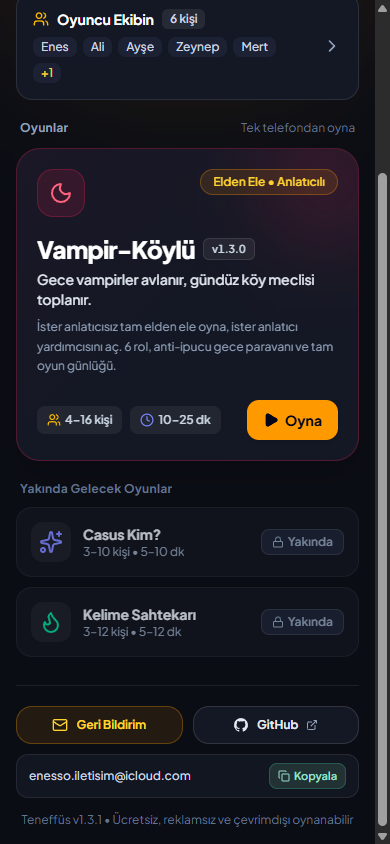
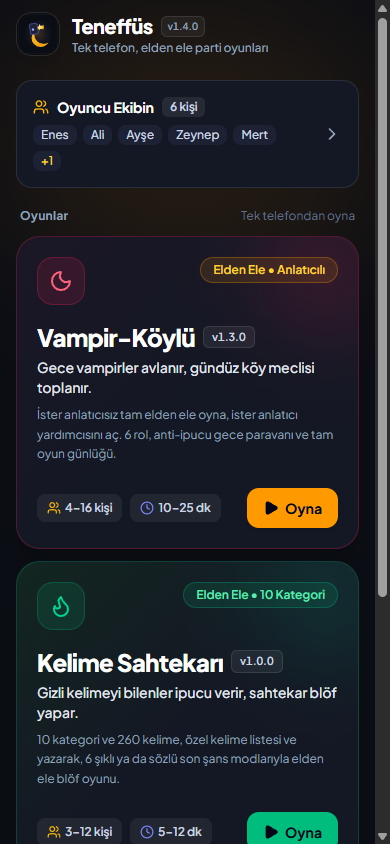
docs: showcase Kelime Sahtekari v1.0.0 and Hub v1.4.0

diff --git a/README.md b/README.md
@@ -7,8 +7,9 @@
   **Arkadaş grupları için tasarlanmış; tamamen ücretsiz, reklamsız, çevrimdışı çalışabilen mobil öncelikli pass-and-play parti oyunları hub'ı.**
 
   [![Canlı Uygulama](https://img.shields.io/badge/Canlı%20Site-teneffus.ns--som.workers.dev-f59e0b?style=for-the-badge&logo=cloudflare&logoColor=white)](https://teneffus.ns-som.workers.dev/)
-  [![Site Sürümü](https://img.shields.io/badge/Hub%20Sürümü-v1.3.1-10b981?style=for-the-badge)](CHANGELOG.md)
+  [![Site Sürümü](https://img.shields.io/badge/Hub%20Sürümü-v1.4.0-10b981?style=for-the-badge)](CHANGELOG.md)
   [![Vampir-Köylü](https://img.shields.io/badge/Vampir--Köylü-v1.3.0-f43f5e?style=for-the-badge)](CHANGELOG.md)
+  [![Kelime Sahtekarı](https://img.shields.io/badge/Kelime%20Sahtekarı-v1.0.0-10b981?style=for-the-badge)](CHANGELOG.md)
   [![Mimari](https://img.shields.io/badge/Mimari-React%2019%20%7C%20TS%20%7C%20PWA-6366f1?style=for-the-badge)](docs/ARCHITECTURE.md)
   [![Gizlilik](https://img.shields.io/badge/Gizlilik-%25100%20Cihazda-06b6d4?style=for-the-badge)](docs/PRIVACY.md)
   [![Lisans](https://img.shields.io/badge/Lisans-Tüm%20Hakları%20Saklıdır-475569?style=for-the-badge)](LICENSE)
@@ -33,15 +34,20 @@
 <div align="center">
   <table border="0">
     <tr>
-      <td align="center" width="50%">
-        <img src="assets/screenshots/hub.png" alt="Teneffüs Hub Mobil Görünümü" width="300">
+      <td align="center" width="33%">
+        <img src="assets/screenshots/hub.png" alt="Teneffüs Hub v1.4.0 Mobil Görünümü" width="240">
         <br>
-        <em>Teneffüs Hub: Ortak Oyuncu Ekibi, Oyun Kartları ve Geri Bildirim Alt Bölümü</em>
+        <em>Teneffüs Hub v1.4.0: Ortak Oyuncu Ekibi, Vampir-Köylü ve Kelime Sahtekarı</em>
       </td>
-      <td align="center" width="50%">
-        <img src="assets/screenshots/vampir-koylu.png" alt="Vampir-Köylü Oyun Kurulumu" width="300">
+      <td align="center" width="33%">
+        <img src="assets/screenshots/vampir-koylu.png" alt="Vampir-Köylü Oyun Kurulumu" width="240">
         <br>
-        <em>Vampir-Köylü: Özelleştirilebilir Mod, Rol Dağıtımı ve Oyuncu Listesi</em>
+        <em>Vampir-Köylü v1.3.0: Mod, Rol Dağıtımı ve Kurallar</em>
+      </td>
+      <td align="center" width="33%">
+        <img src="assets/screenshots/kelime-sahtekari.png" alt="Kelime Sahtekarı Oyun Kurulumu" width="240">
+        <br>
+        <em>Kelime Sahtekarı v1.0.0: 10 Kategori, Özel Liste ve Son Şans Modları</em>
       </td>
     </tr>
   </table>
@@ -55,29 +61,25 @@
 - **%100 Ücretsiz & Reklamsız:** Oyun akışını bölen reklamlar, abonelikler veya sunucu bağımlılığı yoktur.
 - **Çevrimdışı PWA Desteği:** Ana ekrana eklenebilir (`manifest.webmanifest`) ve Service Worker önbelleği sayesinde internet bağlantısı olmadığında da çalışır.
 - **Mobil UX Koruması:** Mobilde basılı tutma sırasında metin seçimi/kopyalama menüsünü, istenmeyen yakınlaştırmayı (pinch-zoom / input auto-zoom) ve ekran kaymalarını engelleyen özel dokunmatik koruma katmanıyla gelir.
-- **Paylaşılan Oyuncu Ekibi:** Arkadaş grubunuzun isimlerini Hub'da bir kez kaydedin; oyun kurulumuna otomatik aktarılsın ve aktif oyun durumunuz tarayıcı kapanınca bile kaybolmasın.
+- **Paylaşılan Oyuncu Ekibi:** Arkadaş grubunuzun isimlerini Hub'da bir kez kaydedin; tüm oyun kurulumlarına otomatik aktarılsın ve devam eden oyunlarınız tarayıcı kapanınca bile kaybolmasın.
 
 ---
 
-## Mevcut Oyun: Vampir-Köylü (`v1.3.0`)
+## Oynanabilir Oyunlar
 
+### 1. Kelime Sahtekarı (`v1.0.0` • 3–12 Kişi • 5–12 dk)
+Herkesin aynı gizli kelimeyi bildiği, sahtekarların ise blöf yaptığı tek kelimelik ipucu ve çıkarım oyunu:
+- **10 Hazır Kategori • 260 Kürasyonlu Kelime:** *Yemek & İçecek*, *Meslekler*, *Hayvanlar*, *Mekânlar & Yerler*, *Eşyalar & Teknoloji*, *Spor & Oyunlar*, *Film, Dizi & Kültür*, *Ülkeler & Şehirler*, *Doğa & Bilim*, *Günlük Hayat & Kavramlar* — tek veya çoklu seçim desteğiyle.
+- **Özel Kelime Listesi:** Kendi arkadaş grubunuza veya sınıfınıza özel kelimeler ekleyip cihazınızda saklayabilirsiniz.
+- **4 Farklı "Son Şans (Oyunu Çalma)" Modu:** Yakalanan sahtekar gizli kelimeyi **6 Şıklı** seçimden bulabilir, **Yazarak** (büyük/küçük harf ve Türkçe karakter toleranslı) tahmin edebilir, **Sözlü (Masa Onaylı)** söyleyebilir ya da bu kural tamamen **Kapalı** oynanabilir.
+- **Eşit Yükseklikli Anti-İpucu Kartları & Özelleştirilebilir Zorluk:** Bilen ve Sahtekar kartları aynı yüksekliğe sahiptir; sahtekara kategori veya zayıf çağrışım ipucu gösterme, birden fazla sahtekarın birbirini görmesi, Açık Masa / Gizli oylama ve tekrarsız kelime havuzu ayarlanabilir.
+
+### 2. Vampir-Köylü (`v1.3.0` • 4–16 Kişi • 10–25 dk)
 Masa başı klasiği **Vampir-Köylü**, elden ele mobil deneyime özel mekaniklerle sıfırdan tasarlandı:
-
-- **İki Oynanış Modu:**
-  - **Moderatörsüz (Tam Elden Ele):** Anlatıcıya ihtiyaç duymadan herkes telefonla sırayla rolünü görür ve gece eylemini gizlice gerçekleştirir.
-  - **Anlatıcı Yardımcılı:** Yönetici gece turu sırasını ve sabah özetini tek ekrandan kontrol eder.
-- **6 Farklı Rol:**
-  - **Vampir:** Geceleri kurban seçer; birden fazla vampir varsa oy çoğunluğu geçerlidir.
-  - **Köylü:** Özel gece gücü yoktur; gece ekranında dışarıdan sürenin belli olmaması için paravan seçimi yapar.
-  - **Doktor:** Her gece bir oyuncuyu vampir saldırısına karşı korur.
-  - **Dedektif:** Her gece bir oyuncuyu sorgulayarak vampir olup olmadığını anında öğrenir.
-  - **Avcı (Ön-Hedefli Sistem):** Her gece değiştirebildiği bir hedef işaretler; gece veya gündüz elendiğinde seçtiği kişiyi de yanında götürür.
-  - **Deli:** Gündüz oylamasında kendini astırmayı başarırsa oyunu tek başına kazanır.
-- **Tek Turda Rol + 1. Gece Akışı:** İlk gecede oyuncular basılı tutup rolünü öğrendikten hemen sonra aynı ekranda ilk gece eylemini tamamlar; telefonun ikinci kez elden ele dönmesine gerek kalmaz.
-- **Anti-İpucu Eşit Yükseklikli Gece Kartları & `(i)` Rol Bilgisi:** Tüm rollerde kompakt kart yüksekliği eşitlenmiştir; paravan seçimleri rolü dışarıdan belli etmez. İhtiyaç halinde `(i)` butonuyla rol açıklamasına anında bakılabilir.
-- **Özelleştirilebilir Kurallar & Çift Oylama Modu:**
-  - **Açık Masa Oylaması** (telefon masadayken sırayla tek dokunuşla oy verme ve geri alma) veya **Gizli Elden Ele Oylama**.
-  - Doktor kendini koruyabilir mi / üst üste aynı kişiyi koruyabilir mi, ilk gece vampir öldürebilir mi, elenen kişinin rolü açıklansın mı, gündüz tartışma sayacı süresi gibi kurallar kurulumda özelleştirilebilir.
+- **İki Oynanış Modu:** Tam elden ele **Moderatörsüz** mod veya tek ekrandan akışı yöneten **Anlatıcı Yardımcılı** mod.
+- **6 Farklı Rol:** *Vampir*, *Köylü*, *Doktor*, *Dedektif*, her gece hedef güncelleyebilen ön-hedefli *Avcı* ve gündüz asılırsa tek başına kazanan *Deli*.
+- **Tek Turda Rol + 1. Gece Akışı & Eşit Kartlar:** İlk gecede oyuncular basılı tutup rolünü öğrendikten hemen sonra eylemini tamamlar; paravan seçimleri ve `(i)` rol bilgi kartıyla süreden rol tahmini engellenir.
+- **Özelleştirilebilir Kurallar & Çift Oylama Modu:** **Açık Masa Oylaması** (geri almalı) veya **Gizli Oylama**, elenen rolünü gizleme/gösterme ve doktor kuralları özelleştirilebilir.
 
 ---
 
@@ -86,8 +88,8 @@ Masa başı klasiği **Vampir-Köylü**, elden ele mobil deneyime özel mekanikl
 | Katman | Seçilen Teknoloji & Yaklaşım |
 | :--- | :--- |
 | **Arayüz** | React 19, TypeScript (strict), Tailwind CSS v4, Lucide İkonları |
-| **Derleme & Test** | Vite 8, Vitest (19 saf motor birim testi), ESLint |
-| **Mimari** | Oyun motorunun UI'dan izole edildiği Registry tabanlı modüler yapı ([Architecture Docs](docs/ARCHITECTURE.md)) |
+| **Derleme & Test** | Vite 8, Vitest (29 saf motor birim testi: 19 Vampir-Köylü + 10 Kelime Sahtekarı), ESLint |
+| **Mimari** | Oyun motorlarının UI'dan izole edildiği Registry tabanlı modüler yapı ([Architecture Docs](docs/ARCHITECTURE.md)) |
 | **Veri & Gizlilik** | `%100` tarayıcı içi (`localStorage`), sıfır sunucu / sıfır takip ([Privacy Policy](docs/PRIVACY.md)) |
 | **Yayınlama & CDN** | PWA Service Worker + Cloudflare Workers Static Assets (SPA fallback, sınırsız statik istek) |
 
@@ -97,9 +99,10 @@ Masa başı klasiği **Vampir-Köylü**, elden ele mobil deneyime özel mekanikl
 
 **Teneffüs** is a mobile-first, offline-capable Turkish pass-and-play party game hub built with **React 19**, **strict TypeScript**, **Tailwind CSS v4**, and **Vite 8**, deployed on **Cloudflare Workers Static Assets** (`https://teneffus.ns-som.workers.dev`).
 
-- **Decoupled Game Engine:** Pure functional TypeScript state transitions for *Vampir-Köylü* (4–16 players, 6 roles, customizable rulesets, open-table & secret voting, night/day phases) covered by **19 Vitest unit tests** independently of React components.
-- **Pass-and-Play Security & Mobile Polish:** Equal-height anti-leakage role banners, hold-to-reveal privacy shields, decoy night actions to normalize turn durations, and touch guards preventing accidental text selection or mobile zoom during group handoffs.
-- **Zero-Backend PWA:** Offline app-shell caching via a custom Service Worker and persistent local game state (`localStorage`) with shared cross-game player rosters.
+- **Multi-Game Modular Architecture:** Hosts both **Vampir-Köylü** (`v1.3.0`, 4–16 players, 6 roles) and **Kelime Sahtekarı** (`v1.0.0`, 3–12 players, 10 categories / 260 curated Turkish words + custom word lists + multiple-choice, Turkish-normalized typed, and verbal steal mechanics) behind a unified plugin-style game registry and shared persistent roster.
+- **Decoupled Game Engines:** Pure functional TypeScript state machines for every game, verified by **29 Vitest unit tests** independently of React components.
+- **Pass-and-Play Security & Mobile Polish:** Uniform-height anti-leakage cards, hold-to-reveal privacy shields, decoy night actions to normalize turn durations, and touch guards preventing accidental text selection or mobile zoom during group handoffs.
+- **Zero-Backend PWA:** Offline app-shell caching via a custom Service Worker and persistent localStorage game state.
 
 *(Note: Application source code is hosted in a private repository; this public repository serves as the project showcase, technical documentation, changelog, and issue tracker.)*
 
@@ -109,7 +112,6 @@ Masa başı klasiği **Vampir-Köylü**, elden ele mobil deneyime özel mekanikl
 
 Yeni elden ele parti oyunları Hub mimarisine modüler olarak eklenmeye devam edecektir:
 - **Casus Kim?** (3–10 kişi, mekân temelli çapraz sorgu oyunu)
-- **Kelime Sahtekarı** (3–12 kişi, gizli kelime ve blöf oyunu)
 
 Detaylı plan için [ROADMAP.md](ROADMAP.md) dosyasına göz atabilirsiniz.
 

diff --git a/docs/ARCHITECTURE.md b/docs/ARCHITECTURE.md
@@ -4,17 +4,17 @@ Teneffüs, birbirinden bağımsız elden ele parti oyunlarını tek bir çatı a
 
 ## 1. Hub Registry Mimarisi
 - Her oyun kendi modülünde izole edilir ve merkezi bir `HUB_GAMES` oyun kayıt listesi (registry) üzerinden Hub'a bağlanır.
-- Hub (`/`), paylaşılan oyuncu ekibini, aktif oyun devam bildirimini, sürüm etiketlerini ve oyun rotasını (`/oyun/:slug`) yönetir.
+- Hub (`/`), paylaşılan oyuncu ekibini, tüm oyunlar için devam eden oturum kartlarını, sürüm etiketlerini ve oyun rotalarını (`/oyun/:slug`) yönetir.
 
 ## 2. Paylaşılan Pass-and-Play Bileşenleri & Mobil Korumalar
 - **Gizlilik Kalkanları (`PassPhoneShield`, `HoldToReveal`):** Elden ele telefon devrinde ekranın kazara görülmesini önleyen onay ve basılı tutarak açma bileşenleri.
 - **Dokunmatik Korumalar:** Çoklu dokunma (pinch-zoom) hareketlerini, uzun basma bağlam menüsünü ve oyun içi metin seçimini engelleyen mobil koruma katmanı (`mobileGuards`), form girişleri (`input`/`textarea`) hariç tüm ekranda aktif tutulur.
-- **Otomatik Konum & Sayac Yönetimi:** Her faz/oyuncu geçişinde sayfa en üste hizalanır; gündüz tartışma sayacı oyun turuna göre yönetilir.
+- **Otomatik Konum & Sayaç Yönetimi:** Her faz/oyuncu geçişinde sayfa en üste hizalanır; tartışma sayaçları tur bazlı yenilenir.
 
-## 3. İzole Oyun Motoru (`Vampir-Köylü`)
-- Tüm rol dağıtımı, gece çözümleme, koruma/sorgu/avcı zincirleri, oylama ve kazanma kontrolleri React arayüzünden tamamen bağımsız saf TypeScript fonksiyonları olarak uygulanmıştır.
-- Bu motor, arayüzden ayrı olarak **19 Vitest birim testi** ile doğrulanmaktadır.
+## 3. İzole Oyun Motorları (`Vampir-Köylü` & `Kelime Sahtekarı`)
+- **Vampir-Köylü:** Rol dağıtımı, gece çözümleme, koruma/sorgu/avcı zincirleri ve oylama akışı **19 Vitest birim testi** ile doğrulanır.
+- **Kelime Sahtekarı:** 10 kategori (260 kelime) + özel liste havuzu, tekrarsız kelime seçimi, Açık Masa / Gizli oylama, Türkçe karakter esnekliğiyle yazarak tahmin ve şıklı/sözlü son şans kuralları **10 Vitest birim testi** ile doğrulanır (toplam **29 birim testi**).
 
 ## 4. Çevrimdışı PWA & Edge Dağıtımı
 - **Service Worker:** Uygulama kabuğu (`/`), `manifest.webmanifest`, uygulama simgesi ve hash'li Vite JS/CSS paketleri cihazda önbelleğe alınır.
-- **Cloudflare Workers Static Assets:** Uygulama sunucusuz statik varlık olarak tek seferlik SPA fallback (`single-page-application`) yapılandırmasıyla Cloudflare edge ağı üzerinden sunulur.
+- **Cloudflare Workers Static Assets:** Uygulama sunucusuz statik varlık olarak SPA fallback (`single-page-application`) yapılandırmasıyla Cloudflare edge ağı üzerinden sunulur.

diff --git a/CHANGELOG.md b/CHANGELOG.md
@@ -1,8 +1,16 @@
 # Sürüm Geçmişi (Changelog)
 
+## v1.4.0 (Kelime Sahtekarı v1.0.0 Lansmanı — 2026-11-21)
+- **Yeni Oyun — Kelime Sahtekarı `v1.0.0`:**
+  - 10 kategoride 260 kürasyonlu Türkçe kelime ve tek/çoklu kategori seçimi eklendi.
+  - Cihazda saklanan **Özel Kelime Ekle** havuzu eklendi.
+  - Yakalanan sahtekarın oyunu çalması için **6 Şıklı**, **Yazarak** (büyük/küçük harf ve Türkçe karakter toleranslı), **Sözlü (Masa Onaylı)** ve **Kapalı** modları eklendi.
+  - Anti-ipucu sabit yükseklikli kartlar, Açık Masa / Gizli oylama, tekrarsız kelime seçimi ve 10 yeni Vitest motor birim testi eklendi.
+- **Hub Güncellemesi:** Oyun kartları kendi tema vurgusunu destekleyecek şekilde güncellendi; Devam Eden Oyun kartı aktif olan tüm oyunları listeler hale getirildi.
+- **PWA Önbelleği:** Service Worker önbellek sürümü `teneffus-v1.4.0` olarak güncellendi.
+
 ## v1.3.1 (Hub Güncellemesi — 2026-11-21)
 - **Geri Bildirim & Tanıtım Alt Bölümü:** Hub alt kısmına doğrudan e-posta (`enesso.iletisim@icloud.com`), tek dokunuşla kopyalama butonu ve GitHub tanıtım deposu bağlantısı eklendi.
-- **PWA Önbelleği:** Service Worker önbellek sürümü `teneffus-v1.3.1` olarak güncellendi.
 
 ## v1.3.0 (Vampir-Köylü & Mobil UX — 2026-11-21)
 - **Ön-Hedefli Avcı Mekaniği:** Avcı artık ölmeden önce her gece hedefini seçip değiştirebiliyor; elendiğinde seçili hedefi yanında götürüyor.

diff --git a/ROADMAP.md b/ROADMAP.md
@@ -1,15 +1,15 @@
 # Yol Haritası (Roadmap)
 
+## Tamamlananlar
+- ~~**Kelime Sahtekarı**~~ — `v1.0.0` ile **v1.4.0** sürümünde yayına alındı!
+
 ## Planlanan Yeni Oyunlar
 - **Casus Kim?** (`3–10 kişi` • `5–10 dk`)
   - Herkesin aynı gizli mekânı bildiği, tek bir casusun ise mekânı tahmin etmeye çalıştığı elden ele soru-cevap oyunu.
-- **Kelime Sahtekarı** (`3–12 kişi` • `5–12 dk`)
-  - Tek kelimelik ipuçlarıyla aradaki sahtekarı bulma ve sahtekarın gizli kelimeyi tahmin etme oyunu.
 
 ## Teneffüs Hub & PWA İyileştirmeleri
-- Hızlı erişim için son oynanan oyun ayarlarını hatırlama.
 - Kurulabilir PWA güncelleme bildirimi ve geliştirilmiş çevrimdışı varlık ön-yükleme.
 
-## Vampir-Köylü Geliştirmeleri
-- Yeni isteğe bağlı roller ve dengeli kalabalık grup presetleri.
-- Oyun sonu istatistik ve rol özeti paylaşım kartı.
+## Mevcut Oyun Geliştirmeleri
+- **Vampir-Köylü:** Yeni isteğe bağlı roller ve kalabalık grup presetleri.
+- **Kelime Sahtekarı:** Yeni tematik sezonluk kelime paketleri.
